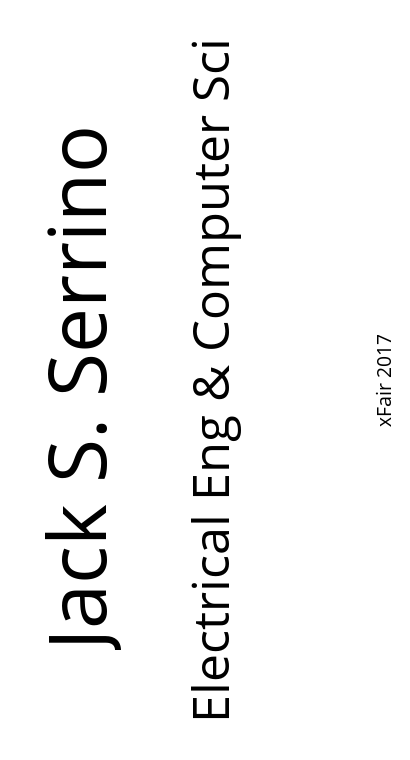
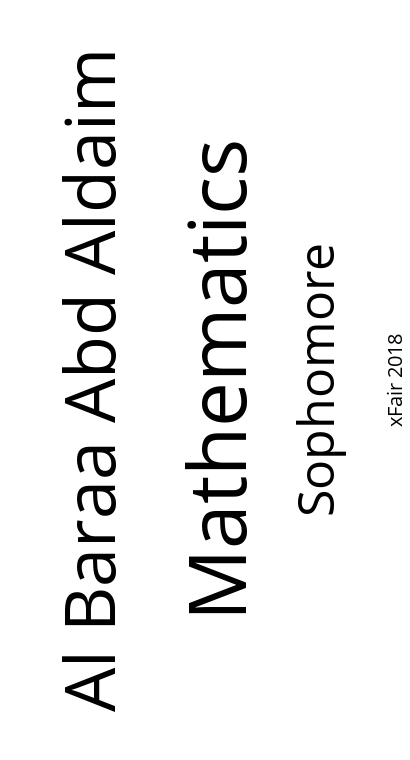
added the ability to ruin freshman's lives

diff --git a/checkin/templates/index.html b/checkin/templates/index.html
@@ -46,6 +46,13 @@
                              <input name="major" type="text" class="form-control" id="major" placeholder="Major(s)" autocomplete='off'>
                           </div>
                         </div>
+			<div class="form-group row">
+                          <label for='major' class="col-sm-2 col-form-label">Year</label>
+                          <div class="col-sm-10">
+                             <input name="year" type="text" class="form-control" id="year" placeholder="Year" autocomplete='off'>
+                          </div>
+                        </div>
+
                         <p>Press enter to print this badge</p>
                         <input type="submit" class="btn btn-primary" value="Print!" />
                     </div>

diff --git a/checkin/static/main.js b/checkin/static/main.js
@@ -36,6 +36,7 @@ $(document).ready(function() {
 
                 $('#name').val(result.name);
                 $('#major').val(result.major);
+                $('#year').val(result.year);
 
                 $('.found').show();
                 readyToSubmit = true;

diff --git a/checkin/printer/image.py b/checkin/printer/image.py
@@ -46,17 +46,19 @@ def draw_centered_text(canvas, font_family, text, max_height, fill="black"):
     canvas.multiline_text(xy, text, font=font, fill=fill, align="center", spacing=10)
 
 
-def create_image(name, major):
+def create_image(name, major, year):
     global_width = app.config['LABEL_WIDTH']
     global_height = app.config['LABEL_HEIGHT']
     image = Image.new('L', (global_width, global_height), 255)
     canvas = ImageDraw.Draw(image)
     filename = 'xfair.png'
 
-    draw_horiz_centered_text(canvas, OPEN_SANS_REGULAR, 20, name, max_height=global_height/4)
+    draw_horiz_centered_text(canvas, OPEN_SANS_REGULAR, 40, name, max_height=global_height/4)
 
     draw_centered_text(canvas, OPEN_SANS_REGULAR, major, max_height=100)
 
-    draw_horiz_centered_text(canvas, OPEN_SANS_REGULAR, 370, "xFair 2017", max_width=140)
+    draw_horiz_centered_text(canvas, OPEN_SANS_REGULAR, 280, year, max_height=global_height/6) 
+
+    draw_horiz_centered_text(canvas, OPEN_SANS_REGULAR, 380, "xFair 2018", max_width=140)
 
     image.transpose(Image.ROTATE_90).save(join(dirname(__file__), 'labels', filename), "PNG")

diff --git a/checkin/routes.py b/checkin/routes.py
@@ -16,7 +16,7 @@ def custom():
 
 @app.route('/print', methods=['POST'])
 def print_label():
-    print_user(request.form['name'], request.form['major'])
+    print_user(request.form['name'], request.form['major'], request.form['year'])
     with open('log.csv', 'a') as f:
         f.write("{},{}\n".format(time.time(), request.form['kerberos']))
     return redirect(url_for('index'))
@@ -31,6 +31,18 @@ def lookup_user():
         name = name_search.group(2) + ' ' + name_search.group(1)
         year = re.search(r'year: ([^\n+]+)\n', r.text).group(1)
         major = re.search(r'department: ([^\n]+)\n', r.text)
+
+        if year=="1":
+            year = "Freshman"
+        elif year=="2":
+            year = "Sophomore"
+        elif year=="3":
+            year = "Junior"
+        elif year=="4":
+            year = "Senior"
+        elif year=="G":
+            year = "Graduate Student"
+
         if major is None:
             major = "Undeclared"
         else:

diff --git a/checkin/printer/__init__.py b/checkin/printer/__init__.py
@@ -5,8 +5,8 @@ from os.path import join, dirname
 from checkin import app
 
 
-def print_user(name, major):
+def print_user(name, major, year):
     printer = app.config['PRINTER_NAME']
     label = join(dirname(__file__), 'labels', 'xfair.png')
-    image.create_image(name, major)
+    image.create_image(name, major, year)
     os.system('lpr -P "{:s}" {:s}'.format(printer, label))

diff --git a/runserver.py b/runserver.py
@@ -1,7 +1,7 @@
 from checkin import app
 
 app.config.update(
-    PRINTER_NAME="DYMO_LabelWriter-450",
+    PRINTER_NAME="DYMO_LabelWriter_450",
     LABEL_WIDTH=760,
     LABEL_HEIGHT=410,
     debug=True
